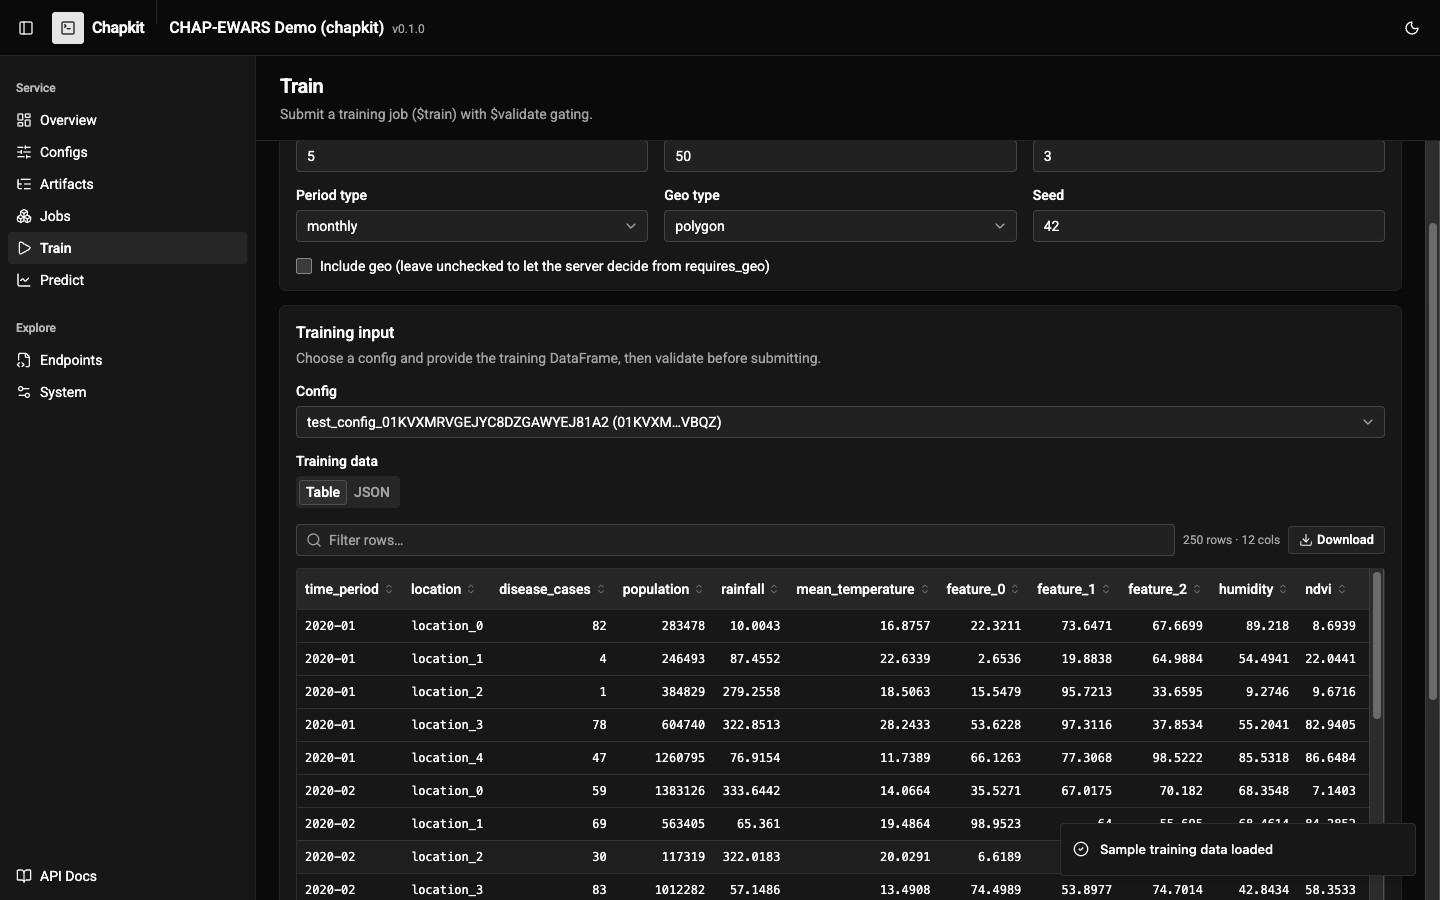
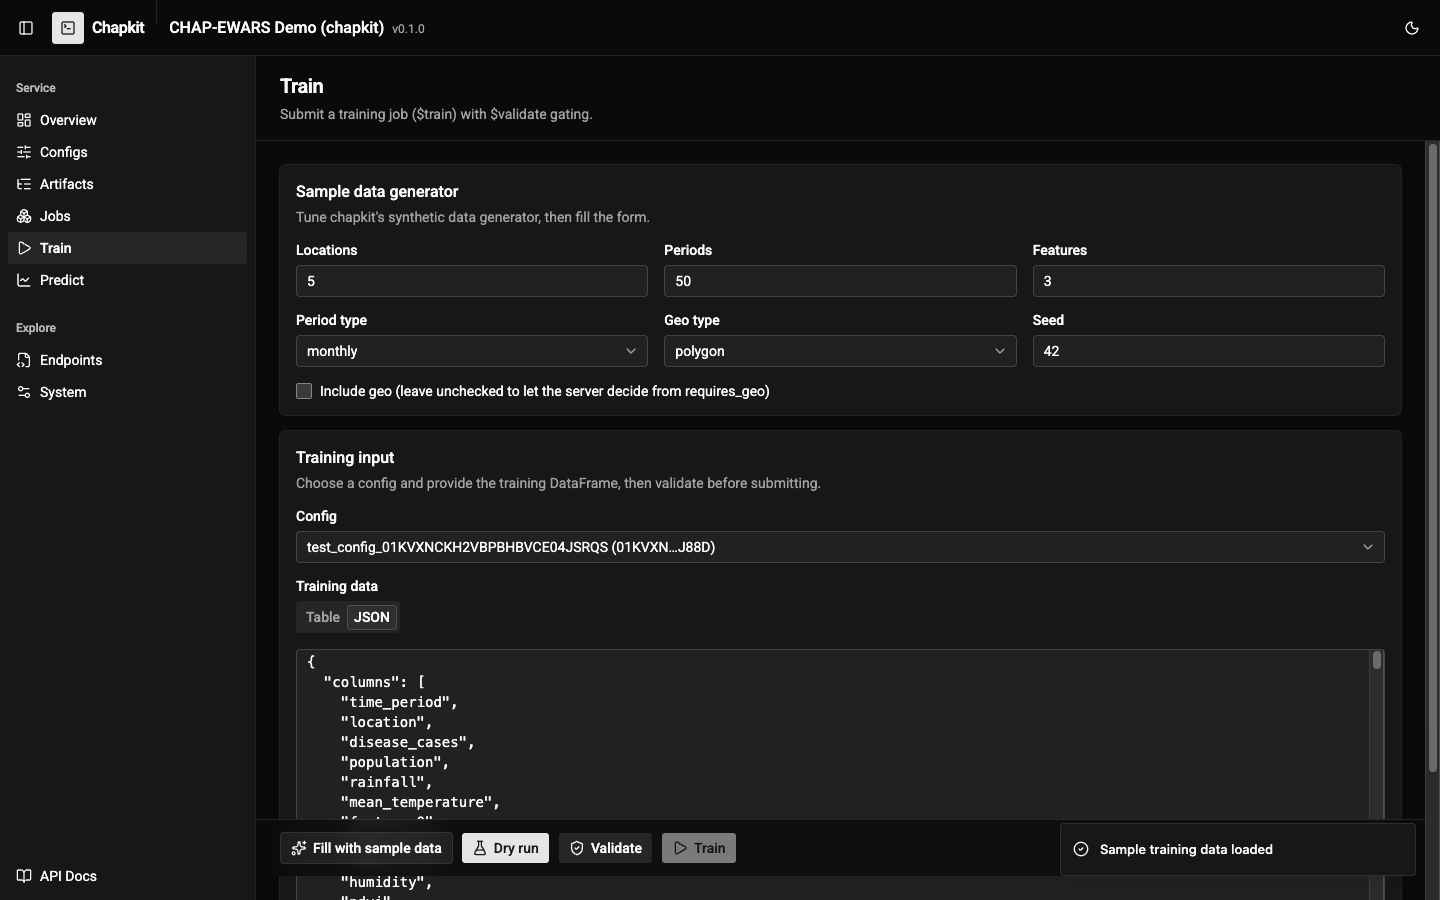
feat(console): pin Train/Predict action buttons in a sticky footer
The action buttons now sit in a sticky bottom bar so they stay visible no matter
how tall the data field is, instead of scrolling out of view.

diff --git a/frontend/src/pages/PredictPage.tsx b/frontend/src/pages/PredictPage.tsx
@@ -286,44 +286,6 @@ export function PredictPage() {
                     invalidate()
                   }}
                 />
-
-                <div className="flex flex-wrap gap-2">
-                  <Button
-                    variant="outline"
-                    onClick={() => sampleMutation.mutate()}
-                    disabled={pending}
-                  >
-                    {sampleMutation.isPending ? <Loader2 className="animate-spin" /> : <Sparkles />}
-                    Fill with sample data
-                  </Button>
-                  <Button
-                    onClick={() => dryRunMutation.mutate()}
-                    disabled={pending || !artifactId}
-                  >
-                    {dryRunMutation.isPending ? (
-                      <Loader2 className="animate-spin" />
-                    ) : (
-                      <FlaskConical />
-                    )}
-                    Dry run
-                  </Button>
-                  <Button
-                    variant="secondary"
-                    onClick={handleValidate}
-                    disabled={pending || !artifactId}
-                  >
-                    {validateMutation.isPending ? (
-                      <Loader2 className="animate-spin" />
-                    ) : (
-                      <ShieldCheck />
-                    )}
-                    Validate
-                  </Button>
-                  <Button onClick={handleSubmit} disabled={pending || !validated}>
-                    {predictMutation.isPending ? <Loader2 className="animate-spin" /> : <Play />}
-                    Predict
-                  </Button>
-                </div>
               </CardContent>
             </Card>
 
@@ -335,6 +297,35 @@ export function PredictPage() {
             ) : null}
 
             {result ? <JobResultCard job={result} onViewJobs={() => navigate('/jobs')} /> : null}
+
+            <div className="sticky bottom-0 z-10 -mx-6 border-t bg-background/95 px-6 py-3 backdrop-blur supports-[backdrop-filter]:bg-background/80">
+              <div className="flex flex-wrap gap-2">
+                <Button
+                  variant="outline"
+                  onClick={() => sampleMutation.mutate()}
+                  disabled={pending}
+                >
+                  {sampleMutation.isPending ? <Loader2 className="animate-spin" /> : <Sparkles />}
+                  Fill with sample data
+                </Button>
+                <Button onClick={() => dryRunMutation.mutate()} disabled={pending || !artifactId}>
+                  {dryRunMutation.isPending ? <Loader2 className="animate-spin" /> : <FlaskConical />}
+                  Dry run
+                </Button>
+                <Button
+                  variant="secondary"
+                  onClick={handleValidate}
+                  disabled={pending || !artifactId}
+                >
+                  {validateMutation.isPending ? <Loader2 className="animate-spin" /> : <ShieldCheck />}
+                  Validate
+                </Button>
+                <Button onClick={handleSubmit} disabled={pending || !validated}>
+                  {predictMutation.isPending ? <Loader2 className="animate-spin" /> : <Play />}
+                  Predict
+                </Button>
+              </div>
+            </div>
           </div>
         )}
       </PageBody>

diff --git a/frontend/src/pages/TrainPage.tsx b/frontend/src/pages/TrainPage.tsx
@@ -246,40 +246,6 @@ export function TrainPage() {
                     invalidate()
                   }}
                 />
-
-                <div className="flex flex-wrap gap-2">
-                  <Button
-                    variant="outline"
-                    onClick={() => sampleMutation.mutate()}
-                    disabled={pending}
-                  >
-                    {sampleMutation.isPending ? <Loader2 className="animate-spin" /> : <Sparkles />}
-                    Fill with sample data
-                  </Button>
-                  <Button
-                    onClick={() => dryRunMutation.mutate()}
-                    disabled={pending || !configId}
-                  >
-                    {dryRunMutation.isPending ? <Loader2 className="animate-spin" /> : <FlaskConical />}
-                    Dry run
-                  </Button>
-                  <Button
-                    variant="secondary"
-                    onClick={handleValidate}
-                    disabled={pending || !configId}
-                  >
-                    {validateMutation.isPending ? (
-                      <Loader2 className="animate-spin" />
-                    ) : (
-                      <ShieldCheck />
-                    )}
-                    Validate
-                  </Button>
-                  <Button onClick={handleSubmit} disabled={pending || !validated}>
-                    {trainMutation.isPending ? <Loader2 className="animate-spin" /> : <Play />}
-                    Train
-                  </Button>
-                </div>
               </CardContent>
             </Card>
 
@@ -291,6 +257,35 @@ export function TrainPage() {
             ) : null}
 
             {result ? <JobResultCard job={result} onViewJobs={() => navigate('/jobs')} /> : null}
+
+            <div className="sticky bottom-0 z-10 -mx-6 border-t bg-background/95 px-6 py-3 backdrop-blur supports-[backdrop-filter]:bg-background/80">
+              <div className="flex flex-wrap gap-2">
+                <Button
+                  variant="outline"
+                  onClick={() => sampleMutation.mutate()}
+                  disabled={pending}
+                >
+                  {sampleMutation.isPending ? <Loader2 className="animate-spin" /> : <Sparkles />}
+                  Fill with sample data
+                </Button>
+                <Button onClick={() => dryRunMutation.mutate()} disabled={pending || !configId}>
+                  {dryRunMutation.isPending ? <Loader2 className="animate-spin" /> : <FlaskConical />}
+                  Dry run
+                </Button>
+                <Button
+                  variant="secondary"
+                  onClick={handleValidate}
+                  disabled={pending || !configId}
+                >
+                  {validateMutation.isPending ? <Loader2 className="animate-spin" /> : <ShieldCheck />}
+                  Validate
+                </Button>
+                <Button onClick={handleSubmit} disabled={pending || !validated}>
+                  {trainMutation.isPending ? <Loader2 className="animate-spin" /> : <Play />}
+                  Train
+                </Button>
+              </div>
+            </div>
           </div>
         )}
       </PageBody>

diff --git a/src/chapkit/api/apps/console/index.html b/src/chapkit/api/apps/console/index.html
@@ -5,8 +5,8 @@
     <link rel="icon" type="image/svg+xml" href="./favicon.svg" />
     <meta name="viewport" content="width=device-width, initial-scale=1.0" />
     <title>Chapkit Console</title>
-    <script type="module" crossorigin src="./assets/index-CXOrNszb.js"></script>
-    <link rel="stylesheet" crossorigin href="./assets/index-Bkyz4M6W.css">
+    <script type="module" crossorigin src="./assets/index-vm5xJ0uB.js"></script>
+    <link rel="stylesheet" crossorigin href="./assets/index-DyG1JyWY.css">
   </head>
   <body>
     <div id="root"></div>